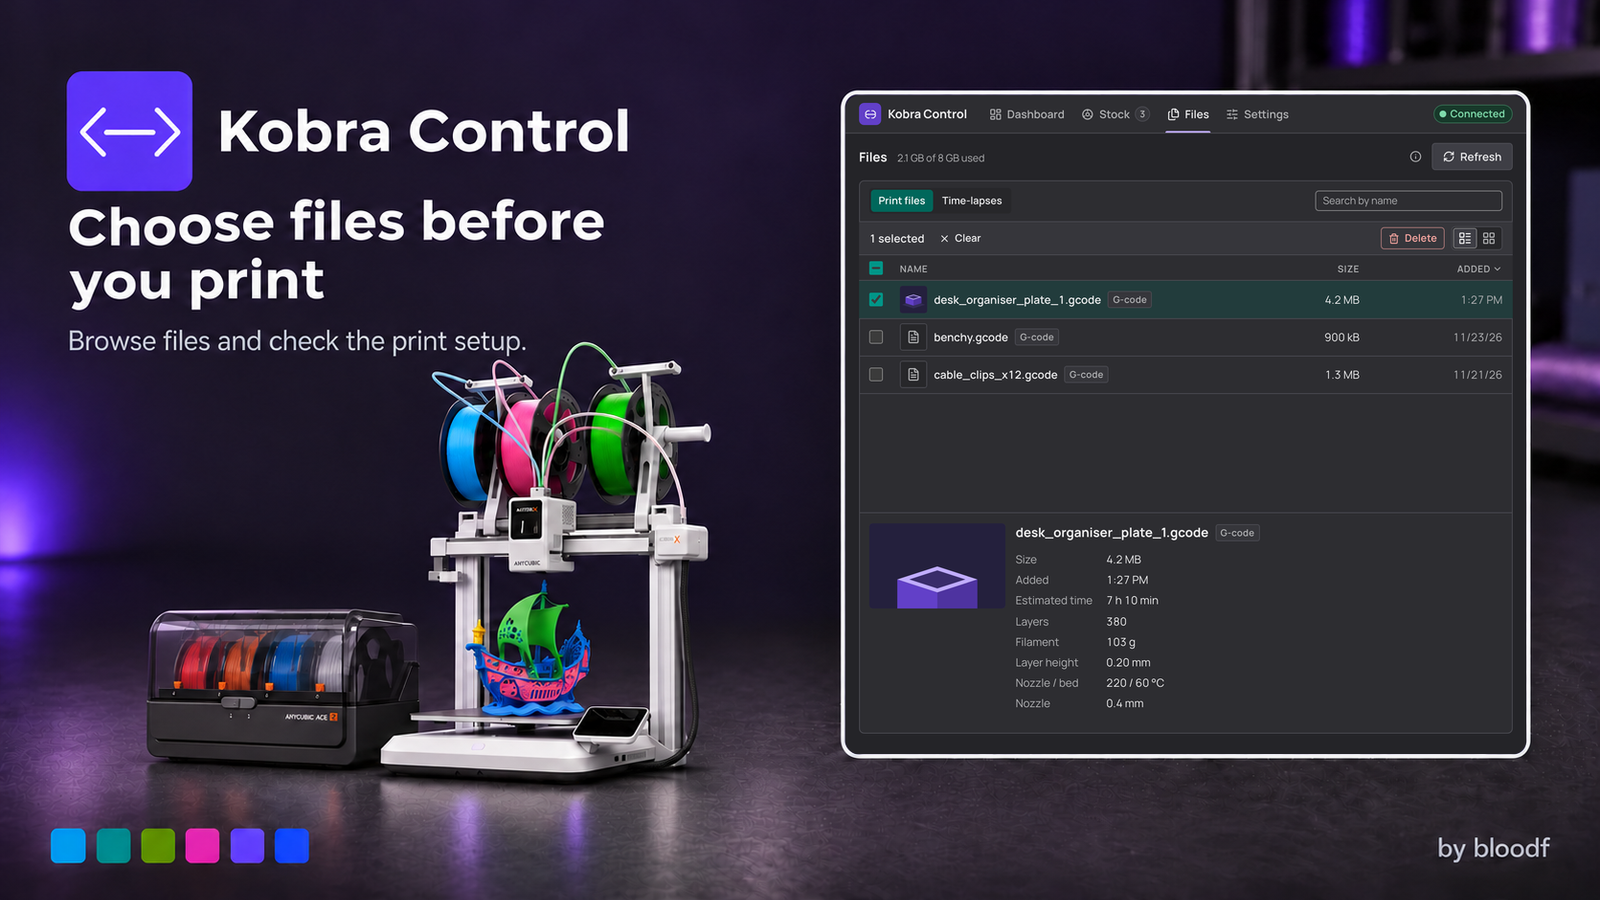
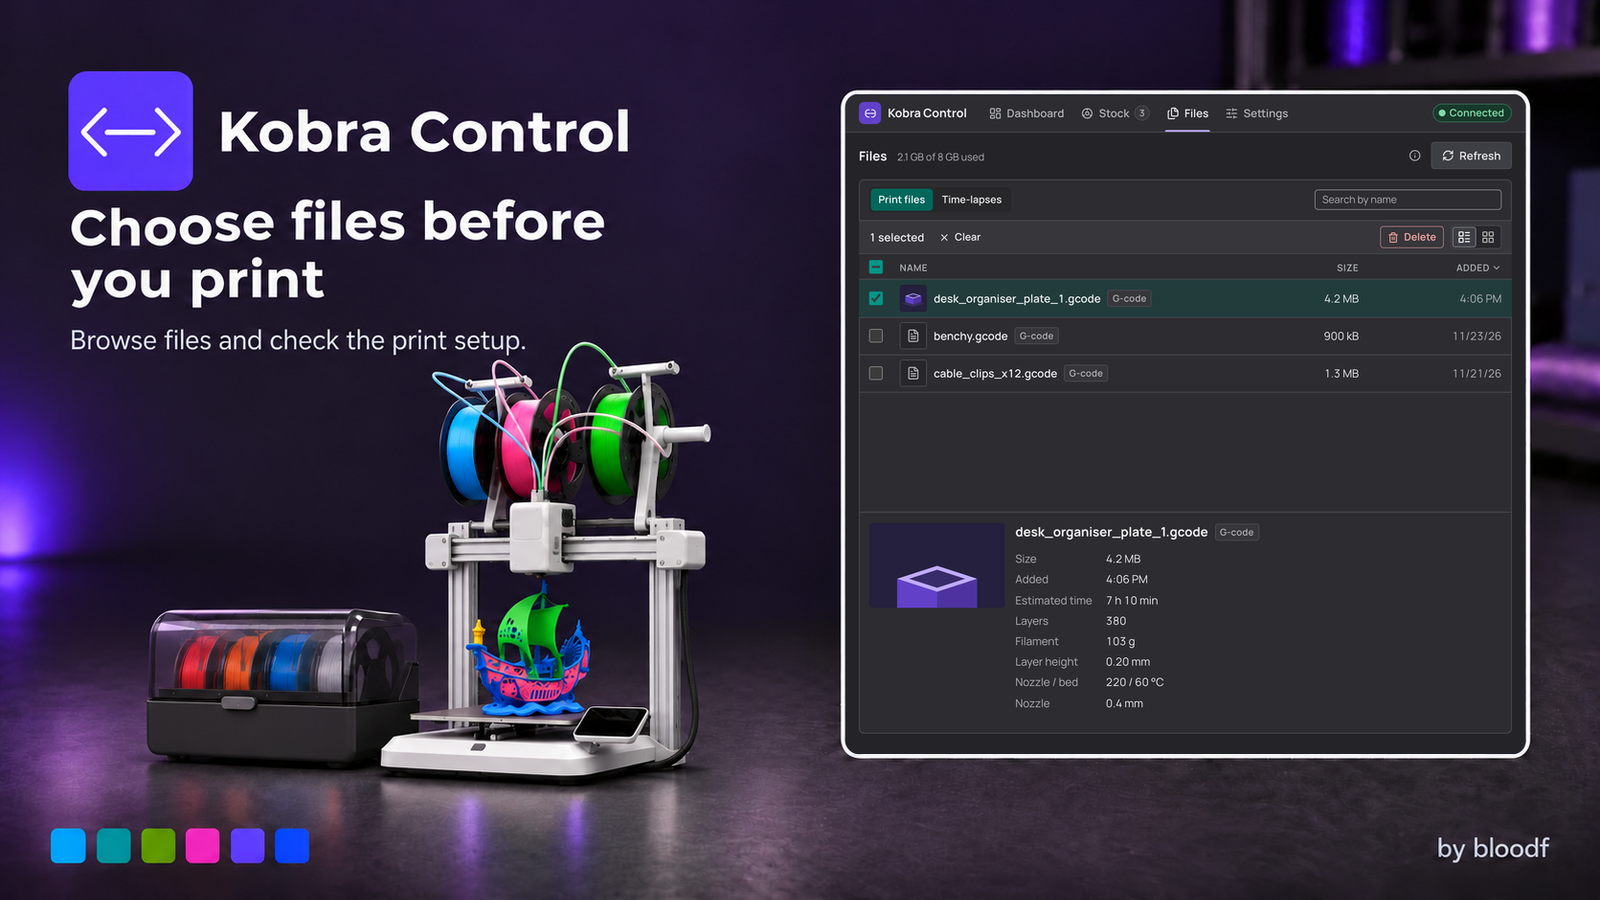
docs(marketing): re-export listing images and record the Anycubic prompts

diff --git a/docs/brand-images-prompt.md b/docs/brand-images-prompt.md
@@ -23,6 +23,38 @@ Where each asset goes in this repo:
 Deliverables 4, 8, 10 and 11 of the prompt (hero, store frames, social images and store tile) are kept below as
 written, but their files were replaced.
 
+## All Anycubic printers (2026-11-24)
+
+Kobra Control drives more than the Kobra X (the Kobra 3 family, S1, 4 and, through Anycubic Cloud, the Kobra 2
+Pro/Plus/Max), so the nine English pictures in `assets/marketing/source/` were edited again: the printer is a generic,
+unbranded Kobra-family printer with a filament box (no Anycubic, Kobra X or ACE markings), and every line that named
+the Kobra X names Anycubic instead. The Portuguese pictures and the tile were left as they were. Each picture was an
+edit of its previous version, made with this prompt (`<LINE>` per picture below; the exact text of each is the
+`exact_prompt` of its entry in `asset-manifest.json`):
+
+```text
+EDIT the attached image (an approved software marketing banner). Generate exactly one image with the same aspect
+ratio as the attached image.
+
+Edit instructions:
+1. <LINE>
+2. Replace the 3D printer and the filament box with a photorealistic generic Anycubic Kobra-family style desktop FDM
+printer, same position and similar size: white and light-grey open-frame bed-slinger with a single upright gantry, a
+moving build plate carrying the same multicolour printed ship, a small tilted touchscreen on the base, a top spool
+holder with spools, next to a black multi-spool filament dryer box with a smoked lid and four coloured spools. The
+machines carry no visible text, no model names, no badges, no letter marks and no logos at all: clean plain panels.
+Keep unchanged: the app tile and the product name, every other line of copy exactly as it is now, the background,
+theme, lighting, the six colour tiles bottom-left, the signature, and the large rounded EMPTY panel on the right at
+exactly the same size and position with its thin border and perfectly uniform flat interior colour (no UI, no text,
+no objects inside, nothing overlapping it). No extra words, no watermark, no other brand logos, no people.
+```
+
+| Picture | `<LINE>` |
+|---|---|
+| cover, main-square, social-preview, hero-dark, hero-light | Replace the small grey scope line under the headline with exactly this text, same font, size, colour and position: "Status, files, camera and print for Anycubic printers." (EXACT, verbatim, no extra characters). Ensure it appears once, perfectly legible and correctly spelled. |
+| feature-01-lan | Replace the small grey line under the headline with exactly this text, same font, size, colour and position: "Prepare and send work to your Anycubic printer." (EXACT, verbatim, no extra characters). Ensure it appears once, perfectly legible and correctly spelled. |
+| feature-02-status, feature-03-ace, feature-04-files | Keep every line of copy exactly as it is; change no text at all. |
+
 ---
 
 ```text
